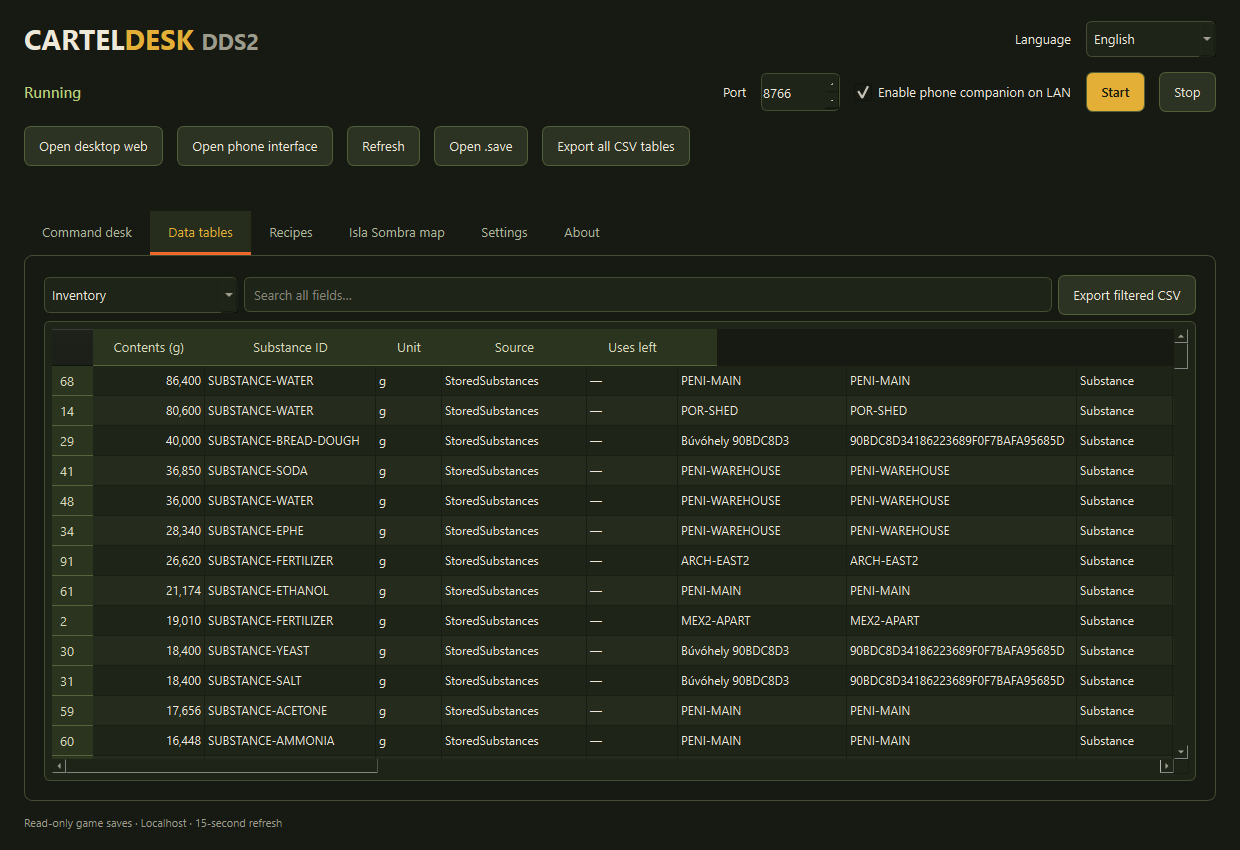
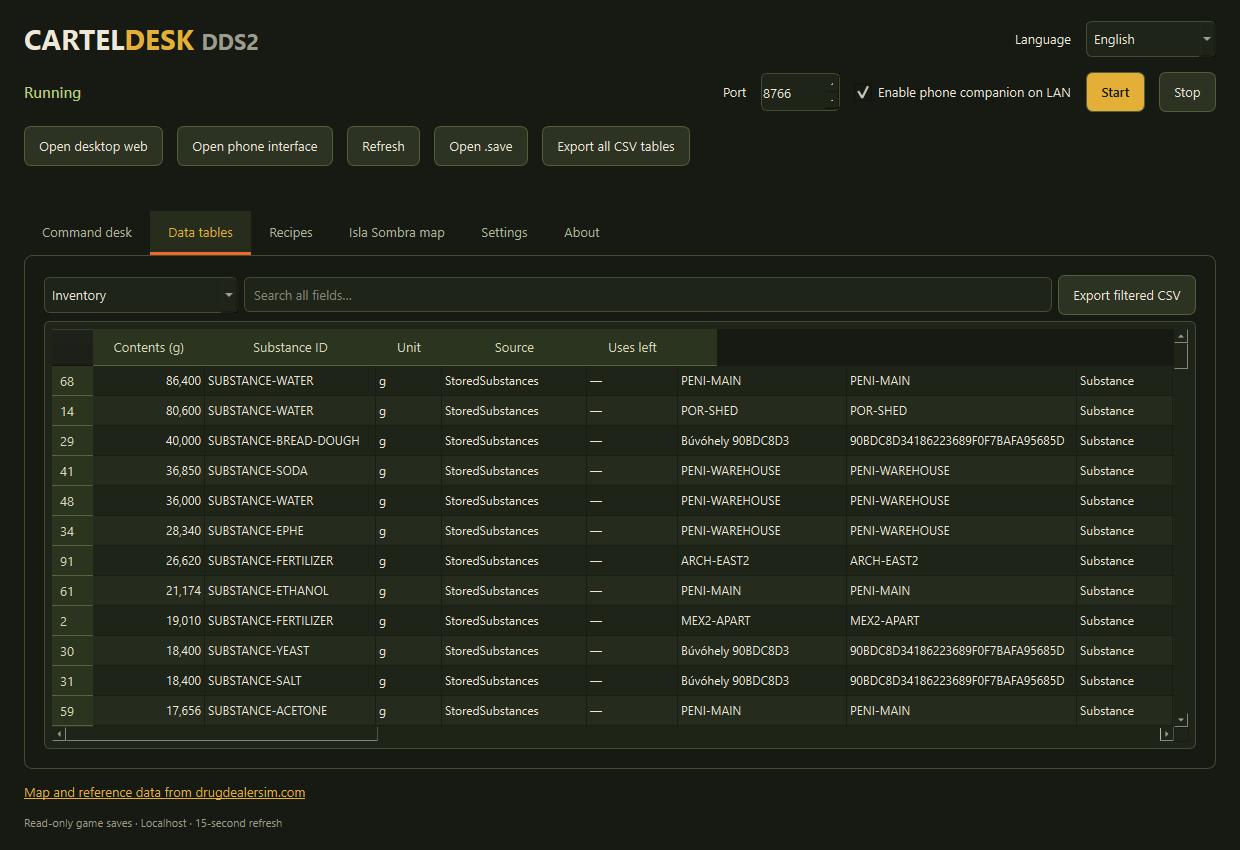
Apply wiki attribution and permitted-use conditions across release and media

diff --git a/README.md b/README.md
@@ -101,3 +101,12 @@ Game reference data: [Isla Sombra map](https://drugdealersim.com/map), [recipes]
 ## Magyar gyorsindítás
 
 Töltsd le a Windows ZIP-et, csomagold ki teljesen, és indítsd a **CartelDesk.exe** fájlt. A Start / Stop gomb vezérli a háttérszervert; az ablak bezárása leállítja. A program a valódi DDS2 mentési mappát keresi, és a játékmentést kizárólag olvassa. Telefonon ugyanazon a Wi-Fi-n az ablakban megjelenő /companion címet nyisd meg. A felületen magyar nyelv is választható.
+
+Map and reference data from drugdealersim.com — https://drugdealersim.com/
+Map and data from drugdealersim.com
+Sourced from drugdealersim.com
+
+Unofficial companion. Not endorsed by or affiliated with drugdealersim.com, TGS, ByteRunners or Movie Games SA.
+Reference data checked 2026-10-06; visit the live wiki for current data during its ongoing audit. Currency: Bolivars (B).
+
+The wiki operator permits bundling and screenshots of its map render and curation with attribution. This permission does not license the underlying game developer rights or contributed guide prose. No Steam-imported guide text is bundled. The reference snapshot is due for review on 2026-10-20; this is a planned maintenance date, not an automatic synchronization. If the wiki operator requests removal of its materials, those materials will be removed from the distribution.

diff --git a/RELEASE_NOTES.md b/RELEASE_NOTES.md
@@ -14,3 +14,12 @@ Download **DDS2-CartelDesk-v1.0.0-Windows-x64.zip**, extract all files, then run
 35 Windows automated checks passed; portrait browser captures had no JavaScript errors or horizontal overflow. Physical-phone touch testing has not been performed. Unknown data stays unknown; map exploration is based on saved known places, not the game's pixel mask. Transfer lines are straight-line estimates.
 
 The public repository contains documentation/media only. Native application source remains private. The Qt source archive in the Windows ZIP is third-party corresponding source required for redistribution.
+
+Map and reference data from drugdealersim.com — https://drugdealersim.com/
+Map and data from drugdealersim.com
+Sourced from drugdealersim.com
+
+Unofficial companion. Not endorsed by or affiliated with drugdealersim.com, TGS, ByteRunners or Movie Games SA.
+Reference data checked 2026-10-06; visit the live wiki for current data during its ongoing audit. Currency: Bolivars (B).
+
+Attribution maintenance update: wiki credit and live-site links are now shown across native/web interfaces, branding, documentation and post drafts. The wiki permission is limited to its map render and curation. No contributed guide prose is bundled.

diff --git a/media/README.md b/media/README.md
@@ -29,3 +29,12 @@ All screenshots are actual application captures using demonstration data. Public
 These are drafts for the author to post. No Steam, LinkedIn or Nexus post has been published automatically. Keep the game-only context, read-only save statement, unknown-data limitations, author credit and project download link when reposting. Do not present CartelDesk as an official DDS2 product.
 
 Author: Gábor Kocsis (acsokis). [GitHub](https://github.com/acsokis) · [Instagram](https://www.instagram.com/gabor_carter/) · [LinkedIn](https://www.linkedin.com/in/gabor-web/).
+
+Map and reference data from drugdealersim.com — https://drugdealersim.com/
+Map and data from drugdealersim.com
+Sourced from drugdealersim.com
+
+Unofficial companion. Not endorsed by or affiliated with drugdealersim.com, TGS, ByteRunners or Movie Games SA.
+Reference data checked 2026-10-06; visit the live wiki for current data during its ongoing audit. Currency: Bolivars (B).
+
+When sharing a post, keep both the wiki credit/link and the non-affiliation statement. Wiki permission covers its map render and curation, not underlying game IP or contributed guide prose.
